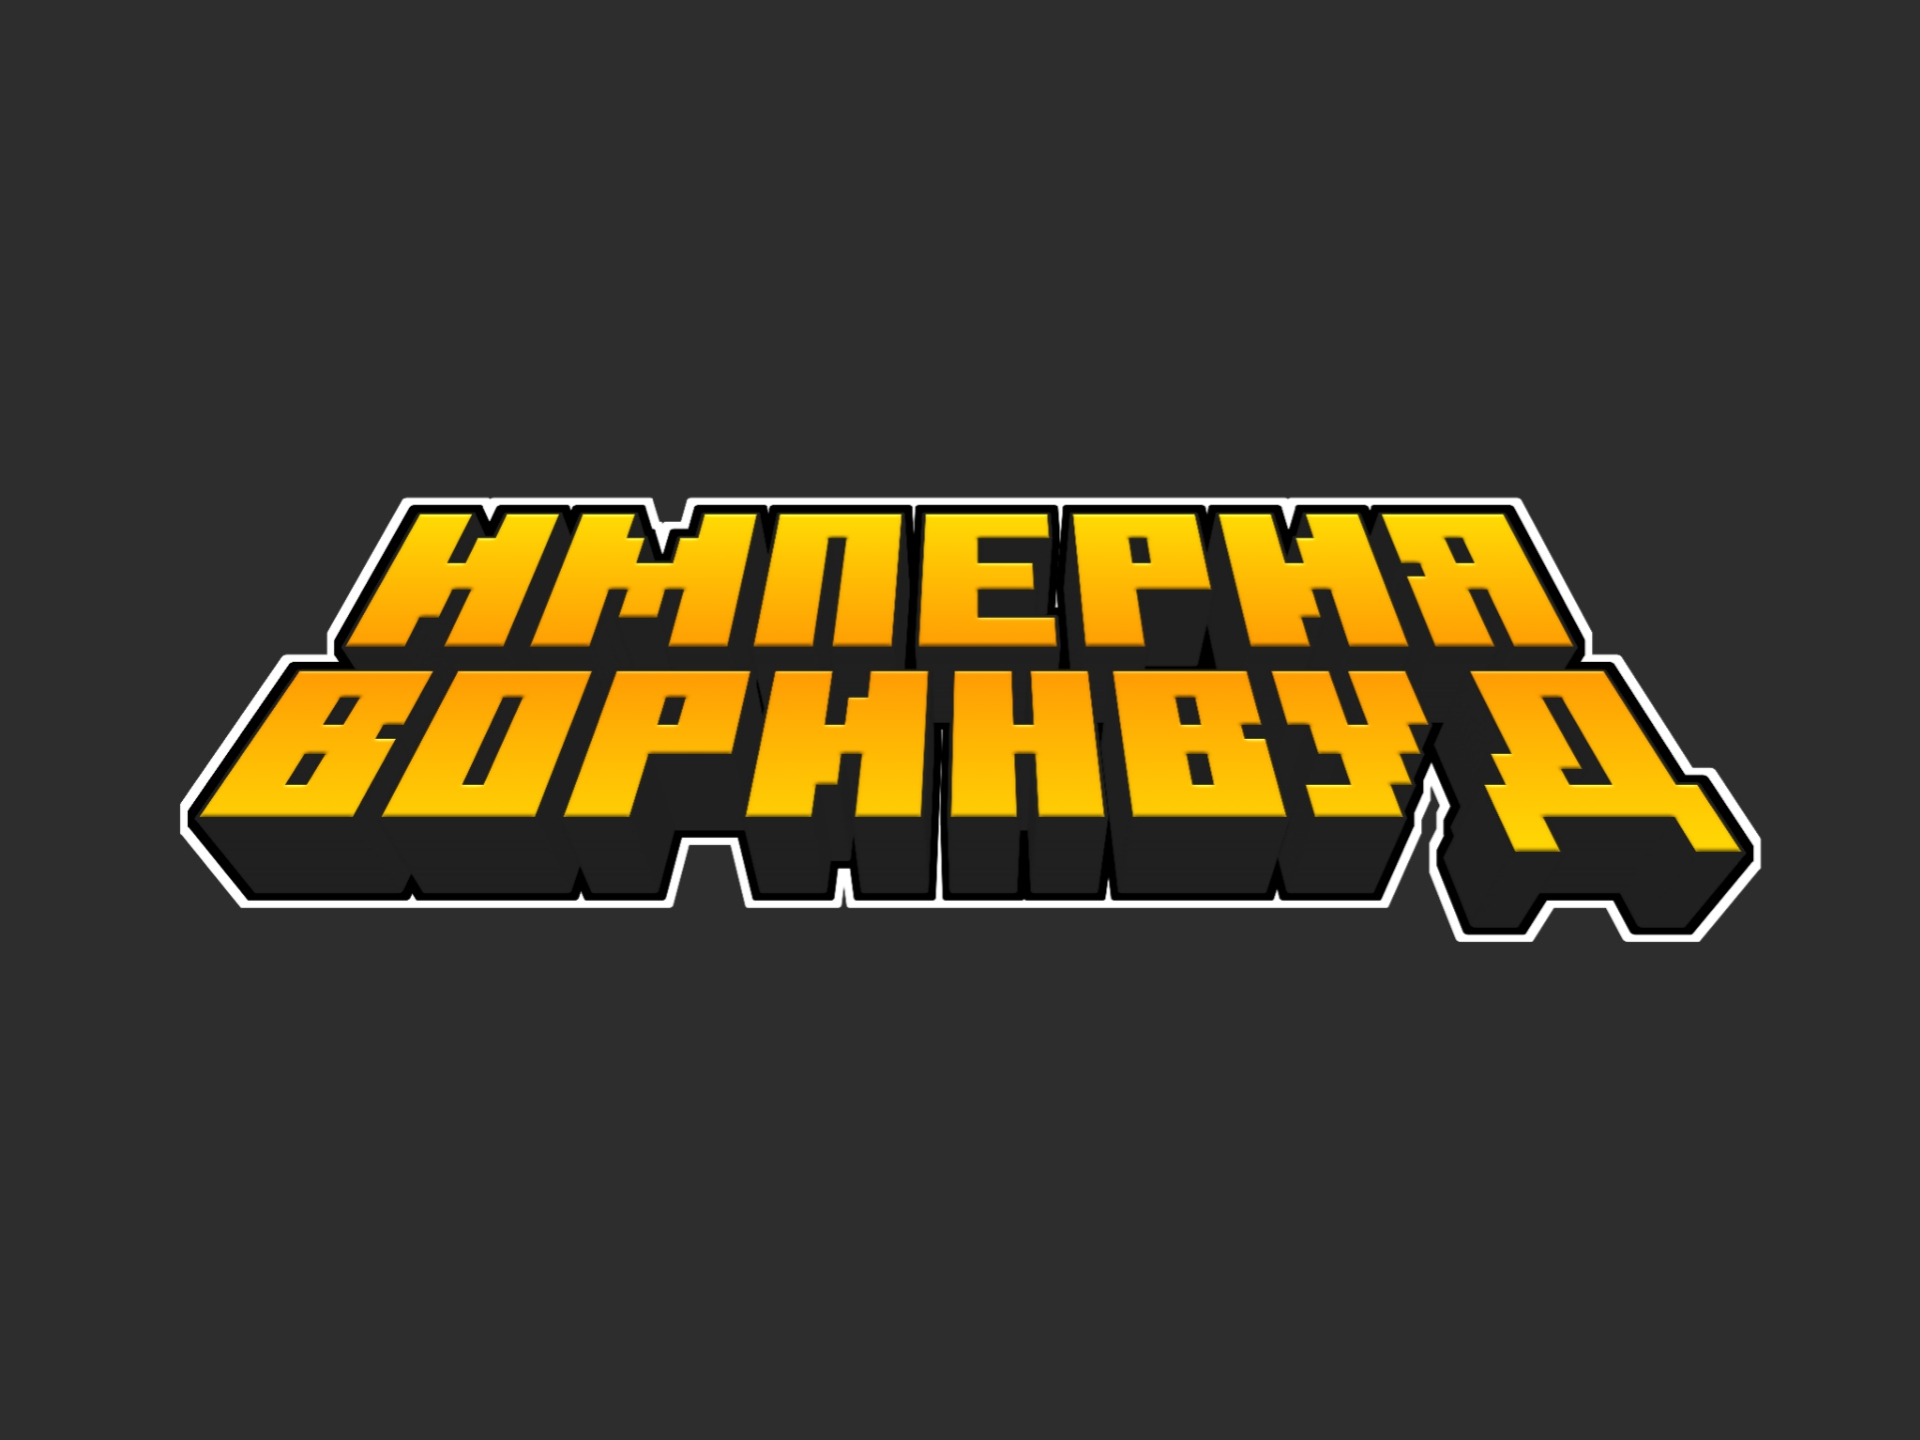
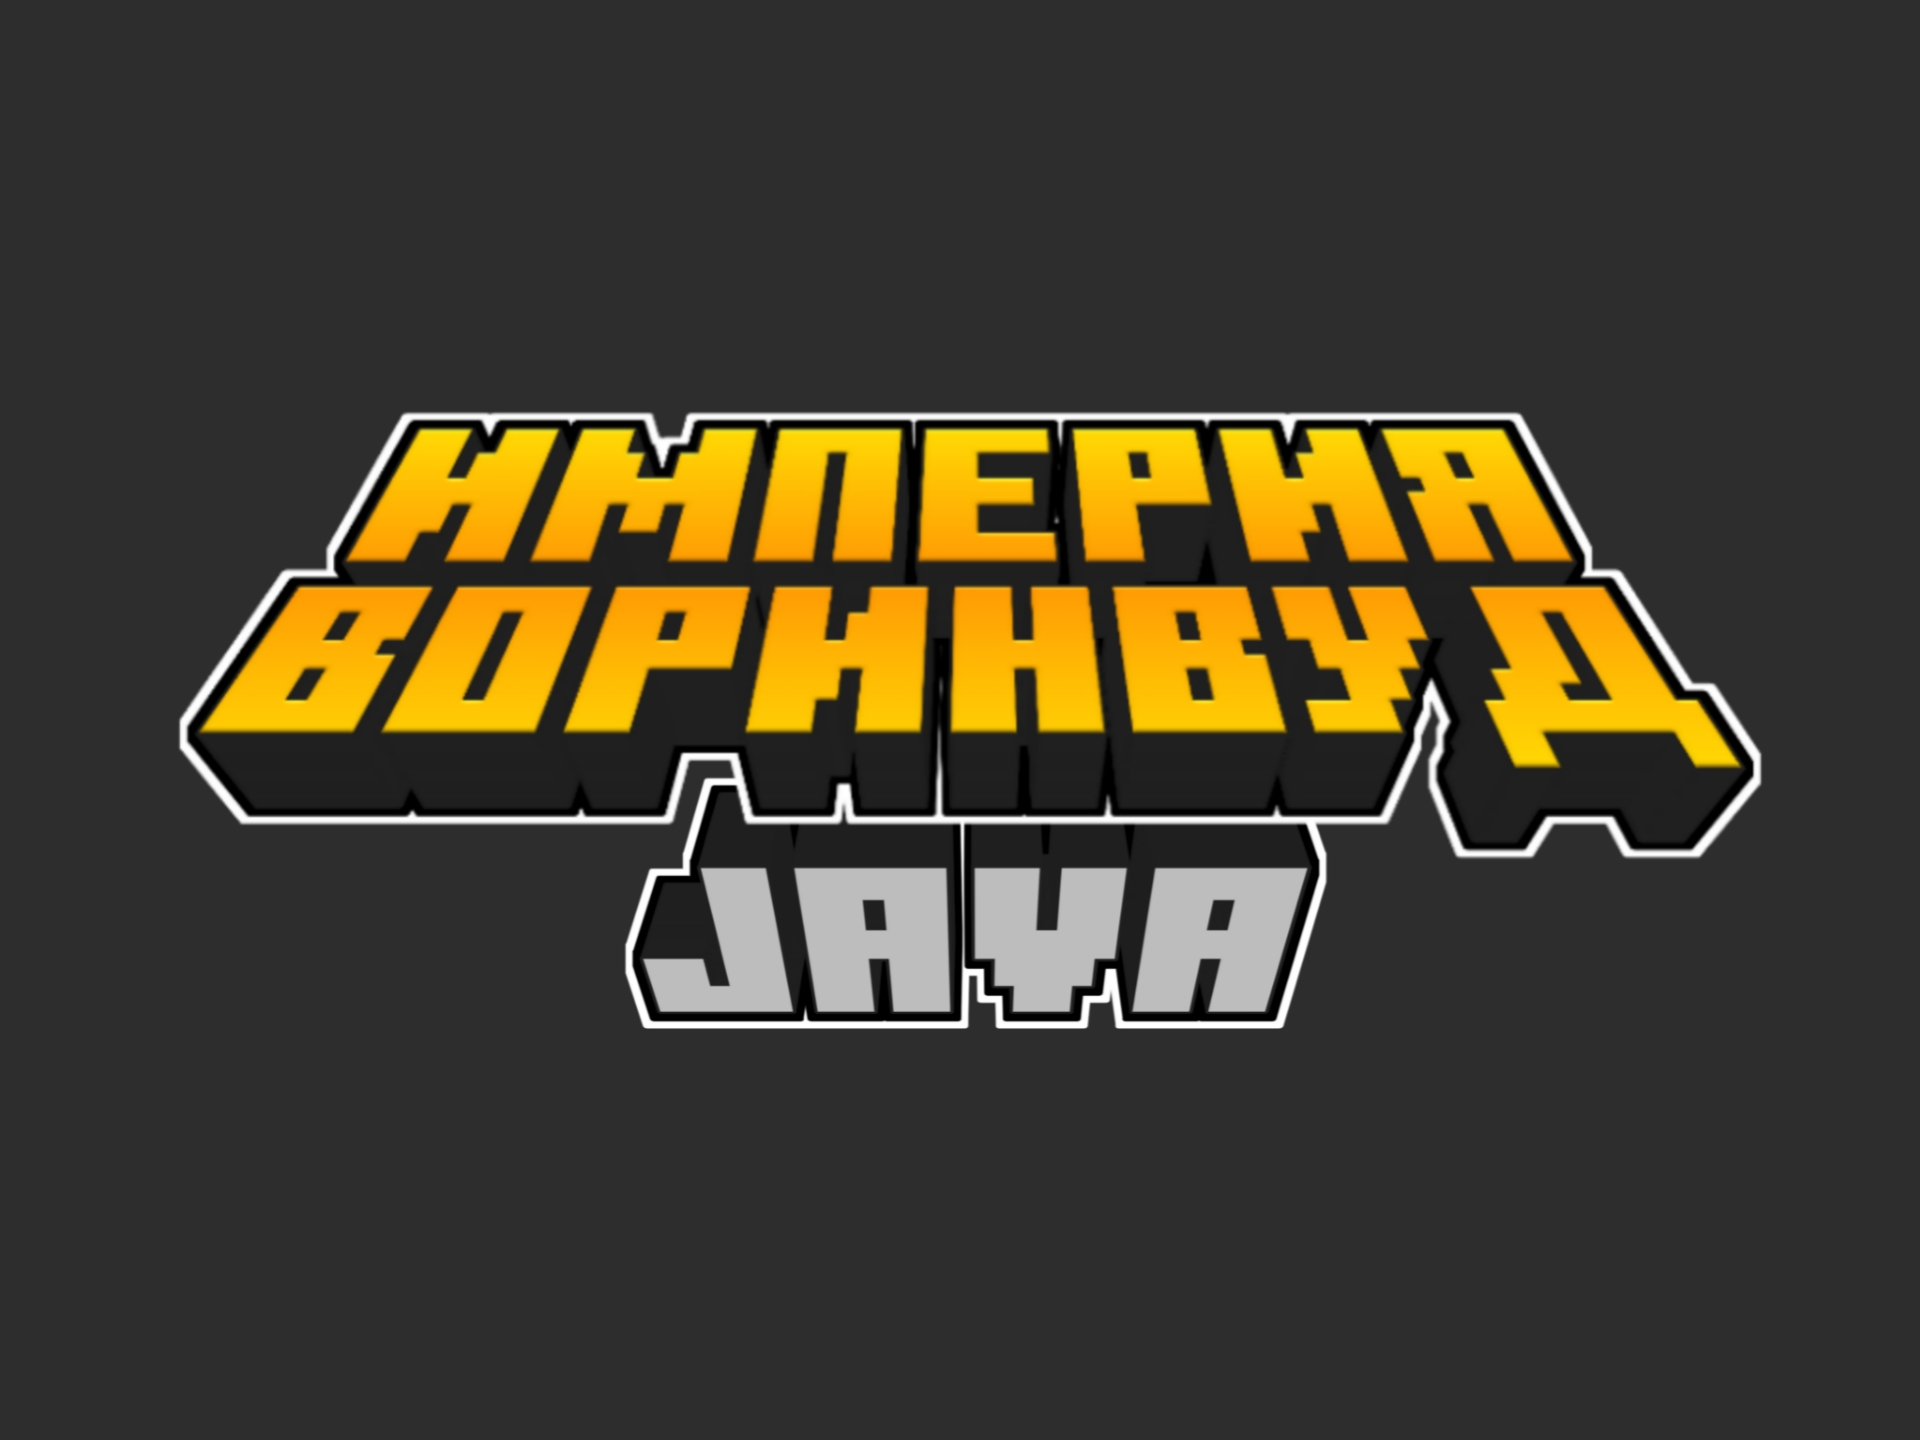
2.1

Changed region(s): [[0.0938, 0.2812, 0.9375, 0.7188]]

diff --git a/index.html b/index.html
@@ -100,7 +100,7 @@
         <strong>ИМПЕРИЯ ВОРИНВУД JAVA</strong>
         РП-Сервер для Minecraft: Java Edition. 
 		<strong></strong>
-		<b>Плотформы</b>: Windows, macOS и Linux.
+		<b>Платформы</b>: Windows, macOS и Linux.
 		<strong></strong>
 		<b>Версии</b>: 1.16.5 - 1.18.2
 		<strong></strong>
@@ -116,7 +116,7 @@
         <strong>ИМПЕРИЯ ВОРИНВУД BEDROCK</strong>
         РП-Сервер для Minecraft: Bedrock Edition. 
 		<strong></strong>
-		<b>Плотформы</b>: Windows 10/11, Android, iOS/ipadOS, XBOX, PS4/PS5 и Nintendo Switch.
+		<b>Платформы</b>: Windows 10/11, Android, iOS/ipadOS, XBOX, PS4/PS5 и Nintendo Switch.
 		<strong></strong>
 		<b>Версии</b>: 1.18.10 - 1.18.12
 		<strong></strong>
@@ -172,7 +172,7 @@
   
   
   <footer>
-    <a>&copy; {{server_name}} 2021-2022</a>
+    <a>&copy; {{server_name}} 2021-2022. Все права защищены.</br>Проект {{server_name}} не относится к Mojang Studios.</a>
 	<a><b>EMAIL:</b> imperiavorinvud@gmail.com</a>
   </footer>
   </script>

diff --git a/bedrock.html b/bedrock.html
@@ -57,13 +57,13 @@
 
   <section class="dark" id="features">
 	<div class="feature center">
-    <img src="img/bedrock.jpg" width="700px" class="enlarge">
-    <h1>ИМПЕРИЯ ВОРИНВУД BEDROCK</h1>
       <p class="enlarge">
+	    <img src="img/logo-bedrock.png" width="200px">
         <strong></strong>
+		<strong></strong>
         РП-Сервер для Minecraft: Bedrock Edition. 
 		<strong></strong>
-		<b>Плотформы</b>: Windows 10/11, Android, iOS/ipadOS, XBOX, PS4/PS5 и Nintendo Switch.
+		<b>Платформы</b>: Windows 10/11, Android, iOS/ipadOS, XBOX, PS4/PS5 и Nintendo Switch.
 		<strong></strong>
 		<b>Версии</b>: 1.18.10 - 1.18.12
 		<strong></strong>
@@ -87,7 +87,7 @@
   </section>
 
   <footer>
-    <p>&copy; {{server_name}} 2021-2022</p>
+    <a>&copy; {{server_name}} 2021-2022. Все права защищены.</br>Проект {{server_name}} не относится к Mojang Studios.</a>
 	<a><b>EMAIL:</b> imperiavorinvud@gmail.com</a>
   </footer>
   </script>

diff --git a/java.html b/java.html
@@ -57,13 +57,13 @@
 
   <section class="dark" id="features">
 	<div class="feature center">
-    <img src="img/java.jpg" width="700px" class="enlarge">
-    <h1>ИМПЕРИЯ ВОРИНВУД JAVA</h1>
-      <p class="enlarge">
+	  <p class="enlarge">
+	    <img src="img/logo-java.png" width="200px">
         <strong></strong>
+		<strong></strong>
         РП-Сервер для Minecraft: Java Edition. 
 		<strong></strong>
-		<b>Плотформы</b>: Windows, macOS и Linux.
+		<b>Платформы</b>: Windows, macOS и Linux.
 		<strong></strong>
 		<b>Версии</b>: 1.16.5 - 1.18.2
 		<strong></strong>
@@ -120,7 +120,7 @@
   </section>
 
   <footer>
-    <p>&copy; {{server_name}} 2021-2022</p>
+    <a>&copy; {{server_name}} 2021-2022. Все права защищены.</br>Проект {{server_name}} не относится к Mojang Studios.</a>
 	<a><b>EMAIL:</b> imperiavorinvud@gmail.com</a>
   </footer>
   </script>
